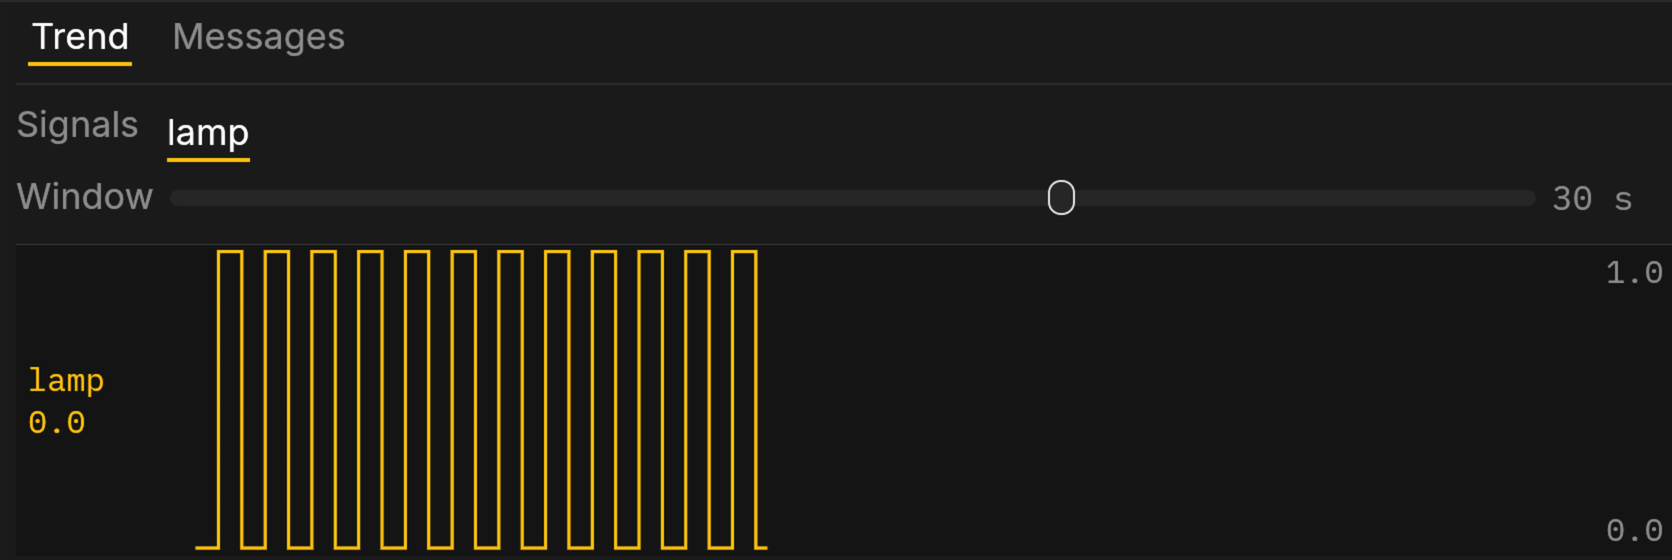
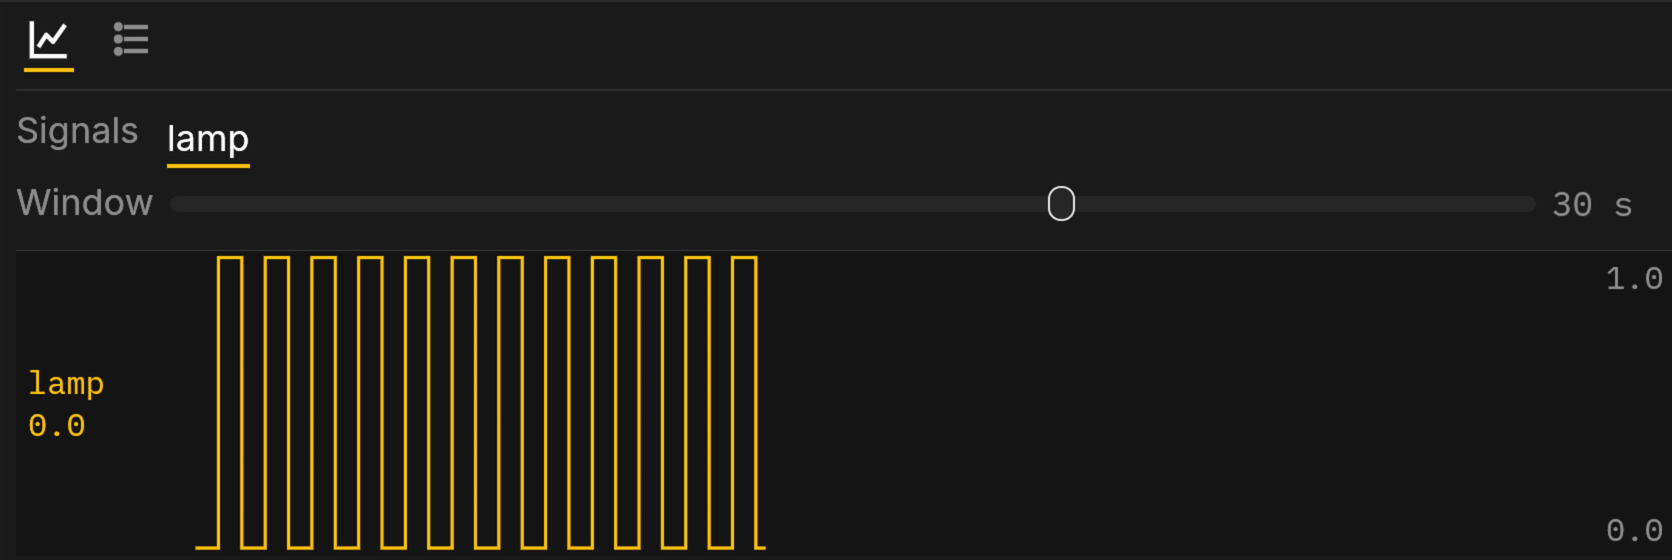
docs(help): the pages and their images follow the new run controls, glyph tabs and Messages tab

diff --git a/docs/help/editor.html b/docs/help/editor.html
@@ -79,10 +79,9 @@ Cross references. View switches between the Editor and the Monitor,
 shows or hides each pane, and has Light mode (dark is the default; the
 browser remembers your choice). Help opens these pages, the keyboard
 table, and About Helmsman (the version and build).</li>
-<li><strong>The state</strong>: <code>running</code>,
-<code>stopped</code> or <code>faulted</code>, green when running, red
-otherwise, with the program's clock. On a box this is the link to the
-box instead.</li>
+<li>On a box, <strong>the link</strong>: whether the page is connected
+to the box. The simulation's state and clock sit beside the run glyphs
+over the diagram.</li>
 <li>On the right: the project's name, a mark when it has unsaved edits,
 the <strong>Editor | Monitor</strong> toggle, a yellow
 <strong>waiting</strong> badge when proposals wait for an approver (it
@@ -91,20 +90,28 @@ in</strong>.</li>
 </ul>
 <img src="img/file-menu.png" alt="The File menu open: New project, Copy project, Save, Deploy, Upload and Download, each with its key." width="520">
 
-<p>If something needs saying, a line appears under the header while it
-is true: a fault, a deploy under way or refused, a file someone else
-saved since you opened it (with a Reload). The Messages tab along the
-bottom keeps those lines after they have gone.</p>
+<p>Anything the page has to say is in the <strong>Messages</strong> tab
+of the bottom panel. Its first rows are what is true now: a fault, a
+deploy under way or refused, a file someone else saved since you opened
+it (with a Reload). Under them is the log of what happened. When an
+error comes in the tab turns red and pulses for a few seconds, and it
+stays red until you have looked at it and the error no longer stands. If
+the bottom panel was shut, an error opens it.</p>
 <p><img src="img/editor-light.png"
 alt="The same screen in light mode, View › Light mode." /></p>
 <h2 id="the-glyphs">The glyphs</h2>
 <p>A strip of buttons sits over the diagram's top-right corner. In the
-simulation: run or stop (<kbd>Ctrl</kbd> <kbd>Enter</kbd>), step one
-scan (<kbd>F8</kbd>, when stopped), and restart from initial values. On
-both: save, upload a file into the project, download the project as a
-<code>.zip</code>, and <strong>?</strong> for these pages. Hover one for
-its name and key.</p>
-<img src="img/glyphs.png" alt="The glyph strip: stop, step, restart, then save, upload and download." width="300">
+simulation it starts with the state (<code>running</code>,
+<code>paused</code>, <code>stopped</code> or <code>faulted</code>) and
+the program's clock, then: run or pause (<kbd>Ctrl</kbd>
+<kbd>Enter</kbd>), stop (<kbd>Shift</kbd> <kbd>F8</kbd>), step to the
+next change (<kbd>F8</kbd>, while paused or stopped), and restart from
+initial values. Pause holds every value where it is. Stop ends the run:
+the values go back to their initial ones, the outputs go off and the
+clock goes to zero. On both: save, upload a file into the project,
+download the project as a <code>.zip</code>, and <strong>?</strong> for
+these pages. Hover one for its name and key.</p>
+<img src="img/glyphs.png" alt="The glyph strip: the state and clock, pause, stop, step, restart, then save, upload and download." width="485">
 
 <h2 id="the-diagram">The diagram</h2>
 <p>The diagram is the program, drawn from its Structured Text and lit
@@ -130,13 +137,15 @@ takes what you type and keeps it when you press <kbd>Enter</kbd>
 (<kbd>Esc</kbd> puts the old value back). In the simulation these are
 the virtual inputs; on a box they are forces (see <a href="box.html">On
 a box</a>).</li>
-<li><strong>Go into a block.</strong> Double-click a function block
-instance to see its own diagram; <kbd>Alt</kbd> <kbd>↑</kbd> or the
-breadcrumbs come back up. From the keyboard, pick the instance and press
-<kbd>Alt</kbd> <kbd>]</kbd> to go in and <kbd>Alt</kbd> <kbd>[</kbd> to
-come out (the instance stays picked, so <kbd>Alt</kbd> <kbd>]</kbd> goes
-back in). With the simulation stopped, each also steps one scan, so you
-watch the instance work as you move through the levels.</li>
+<li><strong>Go into a block.</strong> A function block instance with a
+diagram of its own is drawn as a stack of cards with a double chevron in
+its header. Double-click it to see that diagram; <kbd>Alt</kbd>
+<kbd>↑</kbd> or the breadcrumbs come back up. From the keyboard, pick
+the instance and press <kbd>Alt</kbd> <kbd>]</kbd> to go in and
+<kbd>Alt</kbd> <kbd>[</kbd> to come out (the instance stays picked, so
+<kbd>Alt</kbd> <kbd>]</kbd> goes back in). With the simulation stopped,
+each also steps one scan, so you watch the instance work as you move
+through the levels.</li>
 <li><strong>Arrange.</strong> Drag a block, or an IF by its label, to
 move it. View › Reset layout goes back; View › Save layout as default
 keeps your arrangement with the project so everyone opens it that way.
@@ -217,12 +226,17 @@ word-wrap button beside the file name wraps long lines at the pane's
 width, or, off, keeps each line on one row with a scroll bar under the
 code; the choice is kept with the layout. The key for a tab opens the
 pane on it, or shuts the pane when that tab already shows. A double
-click on any tab, on this pane or the side panel, hides that pane.</li>
+click on any tab, on this pane or the side panel, hides that pane. The
+tabs are glyphs; hover one for its name. A hidden pane keeps its tabs
+down the strip at the edge, and a click on one opens the pane on that
+tab.</li>
 </ul></li>
 <li><strong>The bottom panel</strong> (<kbd>Alt</kbd> <kbd>Shift</kbd>
 <kbd>2</kbd>): the <strong>Trend</strong> of the signals you pin, with a
-long time axis, and <strong>Messages</strong>, the last two hundred
-things the page had to say, with the error count on the tab.</li>
+long time axis, and <strong>Messages</strong>: what needs saying now,
+then the last two hundred things the page had to say, with the error
+count beside the tab. Tick or untick info, warnings and errors to list
+or leave out each.</li>
 <li><strong>The side panel</strong>, on the right (<kbd>Alt</kbd>
 <kbd>Shift</kbd> <kbd>3</kbd>): <strong>I/O</strong>, every input and
 output with its value and a control for each input the diagram does not

diff --git a/docs/help/simulation.html b/docs/help/simulation.html
@@ -74,13 +74,24 @@ href="https://helmsman.advin.io/playground/?tour">guided tour</a> copies
 the Blink example, changes it, deploys it and reads its trend, with each
 step pointing at the control it is about.</p>
 <h2 id="running">Running</h2>
-<p>A project opens running. The glyphs over the diagram run or stop it
-(<kbd>Ctrl</kbd> <kbd>Enter</kbd>; <kbd>Shift</kbd> <kbd>F8</kbd>
-stops), step one scan while stopped (<kbd>F8</kbd>), and restart from
-initial values with the clock at zero. The same three buttons and keys
-are in the Monitor's header. The state in the header says which it is;
-the clock beside it is the program's own time.</p>
-<img src="img/monitor-stopped.png" alt="The Monitor's header with the program stopped: run, step and restart beside the crumbs." width="700">
+<p>A project opens running. The glyphs over the diagram run or pause it
+(<kbd>Ctrl</kbd> <kbd>Enter</kbd>), stop it (<kbd>Shift</kbd>
+<kbd>F8</kbd>), step it (<kbd>F8</kbd>, while paused or stopped), and
+restart it from initial values with the clock at zero. The same buttons
+and keys are in the Monitor's header. The state beside the glyphs says
+which it is; the clock with it is the program's own time.</p>
+<p>Pause holds the program where it is: every variable and output keeps
+its value and the clock stands until you run or step. Stop ends the run:
+the variables go back to their initial values, the outputs go off, the
+clock and the trend go to zero, and the diagram shows no values until
+the program runs again.</p>
+<p>Step runs to the next change. It scans until a value changes or the
+program takes another path through its statements, and shows that scan.
+A timer's elapsed time counting up does not count as a change, so a step
+lands on the scan where the timer's output turns on. If nothing changes
+in 60 seconds of program time, the step stops there and the Messages tab
+says so.</p>
+<img src="img/monitor-stopped.png" alt="The Monitor's header with the program paused: run, stop, step and restart beside the crumbs." width="700">
 
 <p>One program runs in the page at a time. Opening or deploying another
 stops the one before.</p>
@@ -89,15 +100,15 @@ stops the one before.</p>
 (or <strong>Edit › Breakpoint</strong>): a red dot marks it. The next
 scan that reaches the block stops just before it runs, the simulation
 stops with it, and the diagram and every value show the scan as it stood
-at that moment. The block is framed in orange and the notice under the
-header names its line. <kbd>F8</kbd> runs the rest of that scan.
-<kbd>Ctrl</kbd> <kbd>Enter</kbd> goes on to the next stop: the same
-block's next pass in a loop, another breakpoint, or the next scan. An
-input you change while stopped shows at once in what the diagram shows.
-A breakpoint inside a function block stops in every instance of it.
-<kbd>Shift</kbd> <kbd>F9</kbd> on the block again clears it. Stopping at
-a breakpoint changes nothing the program does: the scan runs exactly as
-it would have.</p>
+at that moment. The block is framed in orange and the Messages tab names
+its line. <kbd>F8</kbd> runs the rest of that scan. <kbd>Ctrl</kbd>
+<kbd>Enter</kbd> goes on to the next stop: the same block's next pass in
+a loop, another breakpoint, or the next scan. An input you change while
+stopped shows at once in what the diagram shows. A breakpoint inside a
+function block stops in every instance of it. <kbd>Shift</kbd>
+<kbd>F9</kbd> on the block again clears it. Stopping at a breakpoint
+changes nothing the program does: the scan runs exactly as it would
+have.</p>
 <h2 id="editing">Editing</h2>
 <p>Type in the Structured Text pane. The editor checks what you typed
 after a short pause and marks any error on its line; the diagram and the
@@ -146,7 +157,8 @@ lane's scale is at its right edge: it rounds out to an even step and
 moves only when the values cross one. Pin from the tab's list. History
 restarts when you change the set. To put the lanes in another order,
 drag a lane's name up or down and drop it on the lane it should take;
-its history moves with it.</p>
+its history moves with it. Click a lane's name to pick that signal's
+colour from the palette; the browser keeps your choice.</p>
 <p><img src="img/trend.png"
 alt="The Trend tab: three pinned signals, the Window slider, a lane each with its scale at the right edge." /></p>
 <h2 id="faults">Faults</h2>

diff --git a/docs/help/box.html b/docs/help/box.html
@@ -107,9 +107,10 @@ field opens for the value), and <kbd>Alt</kbd> <kbd>Shift</kbd>
 <p>The Trend tab opens with the box's own history of each pinned signal,
 the last ten minutes, then streams. The window opens on 30 s and widens
 to the whole ten minutes. Drag a lane's name up or down to change the
-order of the lanes. Pins and their order are yours while you are signed
-in and come back on any screen; the box keeps them across a restart (the
-history starts over).</p>
+order of the lanes, and click one to pick that signal's colour. Pins and
+their order are yours while you are signed in and come back on any
+screen; the box keeps them across a restart (the history starts
+over).</p>
 <h2 id="lost-the-box">Lost the box</h2>
 <p>If the box stops answering, the state in the header says so and the
 last diagram stays up; the page keeps trying. "Simulate in this browser"

diff --git a/docs/help/keyboard.html b/docs/help/keyboard.html
@@ -93,17 +93,17 @@ Mac.</strong> Every menu item shows its key.</p>
 </tr>
 <tr>
 <td>Ctrl Enter</td>
-<td>Run or stop the simulation</td>
+<td>Run or pause the simulation</td>
 <td></td>
 </tr>
 <tr>
 <td>Shift F8</td>
-<td>Stop the simulation</td>
+<td>Stop the simulation: initial values, clock to zero</td>
 <td>Stop</td>
 </tr>
 <tr>
 <td>F8</td>
-<td>Step one scan (stopped)</td>
+<td>Step to the next change (paused or stopped)</td>
 <td>Step Into</td>
 </tr>
 <tr>

diff --git a/scripts/help-shots.py b/scripts/help-shots.py
@@ -45,12 +45,12 @@ SHOTS = {
     "editor": ("?playground", layout(), [("wait", 2500)], None),
     "editor-light": ("?playground", layout(light=1), [("wait", 2500)], None),
     "file-menu": ("?playground", layout(), [("click", 137, 26), ("wait", 800)], clip(0, 0, 520, 300)),
-    "glyphs": ("?playground", layout(), [("move", 838, 108), ("wait", 1200)], clip(880, 80, 285, 70)),
+    "glyphs": ("?playground", layout(), [("move", 861, 82), ("wait", 1200)], clip(680, 56, 485, 96)),
     "diagram-why": ("?playground", layout(), [("click", 989, 268), ("wait", 1500)], clip(320, 75, 836, 340)),
-    "files-pane": ("?playground", layout(pane="files"), [("wait", 1500)], clip(0, 75, 360, 470)),
-    "context-menu": ("?playground", layout(pane="files"), [("wait", 1500), ("rclick", 55, 400), ("wait", 800)], clip(0, 75, 360, 470)),
-    "io-tab": ("?playground", layout(tab="io"), [("wait", 1500)], clip(1098, 75, 302, 400)),
-    "agent-tab": ("?playground", layout(tab="claude"), [("wait", 1500)], clip(1098, 75, 302, 370)),
+    "files-pane": ("?playground", layout(pane="files"), [("wait", 1500)], clip(0, 52, 360, 493)),
+    "context-menu": ("?playground", layout(pane="files"), [("wait", 1500), ("rclick", 55, 373), ("wait", 800)], clip(0, 52, 360, 560)),
+    "io-tab": ("?playground", layout(tab="io"), [("wait", 1500)], clip(1098, 52, 302, 423)),
+    "agent-tab": ("?playground", layout(tab="claude"), [("wait", 1500)], clip(1098, 52, 302, 393)),
     "trend": ("?playground", layout(bottom="trend"), [("wait", 8000)], clip(320, 580, 836, 280)),
     "monitor": ("?playground&monitor", layout(), [("wait", 3000)], None),
     "monitor-stopped": ("?playground&monitor", layout(), [("wait", 2000), ("key", "Control+Enter"), ("wait", 1200)], clip(0, 52, 1400, 260)),

diff --git a/docs/help/editor.md b/docs/help/editor.md
@@ -15,9 +15,9 @@ One row along the top.
   each pane, and has Light mode (dark is the default; the browser
   remembers your choice). Help opens these pages, the keyboard table, and About
   Helmsman (the version and build).
-- **The state**: `running`, `stopped` or `faulted`, green when running,
-  red otherwise, with the program's clock. On a box this is the link to
-  the box instead.
+- On a box, **the link**: whether the page is connected to the box. The
+  simulation's state and clock sit beside the run glyphs over the
+  diagram.
 - On the right: the project's name, a mark when it has unsaved edits, the
   **Editor | Monitor** toggle, a yellow **waiting** badge when proposals
   wait for an approver (it opens the Proposals screen) and, on a box,
@@ -25,22 +25,30 @@ One row along the top.
 
 <img src="img/file-menu.png" alt="The File menu open: New project, Copy project, Save, Deploy, Upload and Download, each with its key." width="520">
 
-If something needs saying, a line appears under the header while it is
-true: a fault, a deploy under way or refused, a file someone else saved
-since you opened it (with a Reload). The Messages tab along the bottom
-keeps those lines after they have gone.
+Anything the page has to say is in the **Messages** tab of the bottom
+panel. Its first rows are what is true now: a fault, a deploy under way
+or refused, a file someone else saved since you opened it (with a
+Reload). Under them is the log of what happened. When an error comes in
+the tab turns red and pulses for a few seconds, and it stays red until
+you have looked at it and the error no longer stands. If the bottom
+panel was shut, an error opens it.
 
 ![The same screen in light mode, View › Light mode.](img/editor-light.png)
 
 ## The glyphs
 
 A strip of buttons sits over the diagram's top-right corner. In the
-simulation: run or stop (<kbd>Ctrl</kbd> <kbd>Enter</kbd>), step one scan
-(<kbd>F8</kbd>, when stopped), and restart from initial values. On both:
-save, upload a file into the project, download the project as a `.zip`,
-and **?** for these pages. Hover one for its name and key.
+simulation it starts with the state (`running`, `paused`, `stopped` or
+`faulted`) and the program's clock, then: run or pause (<kbd>Ctrl</kbd>
+<kbd>Enter</kbd>), stop (<kbd>Shift</kbd> <kbd>F8</kbd>), step to the
+next change (<kbd>F8</kbd>, while paused or stopped), and restart from
+initial values. Pause holds every value where it is. Stop ends the run:
+the values go back to their initial ones, the outputs go off and the
+clock goes to zero. On both: save, upload a file into the project,
+download the project as a `.zip`, and **?** for these pages. Hover one
+for its name and key.
 
-<img src="img/glyphs.png" alt="The glyph strip: stop, step, restart, then save, upload and download." width="300">
+<img src="img/glyphs.png" alt="The glyph strip: the state and clock, pause, stop, step, restart, then save, upload and download." width="485">
 
 ## The diagram
 
@@ -65,8 +73,9 @@ you cannot draw into it. What you can do:
   type and keeps it when you press <kbd>Enter</kbd> (<kbd>Esc</kbd> puts
   the old value back). In the simulation these are the virtual inputs;
   on a box they are forces (see [On a box](box.html)).
-- **Go into a block.** Double-click a function block instance to see its
-  own diagram; <kbd>Alt</kbd> <kbd>↑</kbd> or the breadcrumbs come back
+- **Go into a block.** A function block instance with a diagram of its
+  own is drawn as a stack of cards with a double chevron in its header.
+  Double-click it to see that diagram; <kbd>Alt</kbd> <kbd>↑</kbd> or the breadcrumbs come back
   up. From the keyboard, pick the instance and press <kbd>Alt</kbd>
   <kbd>]</kbd> to go in and <kbd>Alt</kbd> <kbd>[</kbd> to come out (the
   instance stays picked, so <kbd>Alt</kbd> <kbd>]</kbd> goes back in).
@@ -153,10 +162,14 @@ label is drawn, the icon stands alone at a readable size.
   scroll bar under the code; the choice is kept with the layout. The key for a tab
   opens the pane on it, or shuts the pane when that tab already shows.
   A double click on any tab, on this pane or the side panel, hides that
-  pane.
+  pane. The tabs are glyphs; hover one for its name. A hidden pane keeps
+  its tabs down the strip at the edge, and a click on one opens the pane
+  on that tab.
 - **The bottom panel** (<kbd>Alt</kbd> <kbd>Shift</kbd> <kbd>2</kbd>): the **Trend** of the
-  signals you pin, with a long time axis, and **Messages**, the last two
-  hundred things the page had to say, with the error count on the tab.
+  signals you pin, with a long time axis, and **Messages**: what needs
+  saying now, then the last two hundred things the page had to say, with
+  the error count beside the tab. Tick or untick info, warnings and
+  errors to list or leave out each.
 - **The side panel**, on the right (<kbd>Alt</kbd> <kbd>Shift</kbd> <kbd>3</kbd>): **I/O**,
   every input and output with its value and a control for each input the
   diagram does not show; **Requirements**, the project's requirement tests,

diff --git a/docs/help/simulation.md b/docs/help/simulation.md
@@ -10,14 +10,26 @@ with each step pointing at the control it is about.
 
 ## Running
 
-A project opens running. The glyphs over the diagram run or stop it
-(<kbd>Ctrl</kbd> <kbd>Enter</kbd>; <kbd>Shift</kbd> <kbd>F8</kbd> stops),
-step one scan while stopped (<kbd>F8</kbd>), and restart from initial
-values with the clock at zero. The same three buttons and keys are in
-the Monitor's header. The state in the header says which it is; the
-clock beside it is the program's own time.
+A project opens running. The glyphs over the diagram run or pause it
+(<kbd>Ctrl</kbd> <kbd>Enter</kbd>), stop it (<kbd>Shift</kbd>
+<kbd>F8</kbd>), step it (<kbd>F8</kbd>, while paused or stopped), and
+restart it from initial values with the clock at zero. The same buttons
+and keys are in the Monitor's header. The state beside the glyphs says
+which it is; the clock with it is the program's own time.
 
-<img src="img/monitor-stopped.png" alt="The Monitor's header with the program stopped: run, step and restart beside the crumbs." width="700">
+Pause holds the program where it is: every variable and output keeps its
+value and the clock stands until you run or step. Stop ends the run: the
+variables go back to their initial values, the outputs go off, the clock
+and the trend go to zero, and the diagram shows no values until the
+program runs again.
+
+Step runs to the next change. It scans until a value changes or the
+program takes another path through its statements, and shows that scan.
+A timer's elapsed time counting up does not count as a change, so a step
+lands on the scan where the timer's output turns on. If nothing changes in 60 seconds of program time, the step stops
+there and the Messages tab says so.
+
+<img src="img/monitor-stopped.png" alt="The Monitor's header with the program paused: run, stop, step and restart beside the crumbs." width="700">
 
 One program runs in the page at a time. Opening or deploying another
 stops the one before.
@@ -28,8 +40,7 @@ Pick a block in the diagram and press <kbd>Shift</kbd> <kbd>F9</kbd> (or
 **Edit › Breakpoint**): a red dot marks it. The next scan that reaches
 the block stops just before it runs, the simulation stops with it, and
 the diagram and every value show the scan as it stood at that moment.
-The block is framed in orange and the notice under the header names its
-line. <kbd>F8</kbd> runs the rest of that scan.
+The block is framed in orange and the Messages tab names its line. <kbd>F8</kbd> runs the rest of that scan.
 <kbd>Ctrl</kbd> <kbd>Enter</kbd> goes on to the next stop: the same
 block's next pass in a loop, another breakpoint, or the next scan. An
 input you change while stopped shows at once in what the diagram shows.
@@ -91,7 +102,8 @@ lane's scale is at its right edge: it rounds out to an even step and
 moves only when the values cross one. Pin from the tab's list. History
 restarts when you change the set. To put the lanes in another order,
 drag a lane's name up or down and drop it on the lane it should take;
-its history moves with it.
+its history moves with it. Click a lane's name to pick that signal's
+colour from the palette; the browser keeps your choice.
 
 ![The Trend tab: three pinned signals, the Window slider, a lane each with its scale at the right edge.](img/trend.png)
 

diff --git a/docs/help/keyboard.md b/docs/help/keyboard.md
@@ -6,9 +6,9 @@ CODESYS's default keys where no browser uses them, and nothing on a key a browse
 |---|---|---|
 | Ctrl S | Save | Save Project |
 | Ctrl Shift Enter | Deploy |  |
-| Ctrl Enter | Run or stop the simulation |  |
-| Shift F8 | Stop the simulation | Stop |
-| F8 | Step one scan (stopped) | Step Into |
+| Ctrl Enter | Run or pause the simulation |  |
+| Shift F8 | Stop the simulation: initial values, clock to zero | Stop |
+| F8 | Step to the next change (paused or stopped) | Step Into |
 | Alt F8 | Sign in (box) | Login |
 | Ctrl F8 | Sign out (box) | Logout |
 | Ctrl Z | Undo in the Structured Text | Undo |

diff --git a/docs/help/box.md b/docs/help/box.md
@@ -49,7 +49,7 @@ field opens for the value), and <kbd>Alt</kbd> <kbd>Shift</kbd>
 The Trend tab opens with the box's own history of each pinned signal,
 the last ten minutes, then streams. The window opens on 30 s and widens
 to the whole ten minutes. Drag a lane's name up or down to change the
-order of the lanes. Pins and their order are yours while you are signed
+order of the lanes, and click one to pick that signal's colour. Pins and their order are yours while you are signed
 in and come back on any screen; the box keeps them across a restart
 (the history starts over).
 
